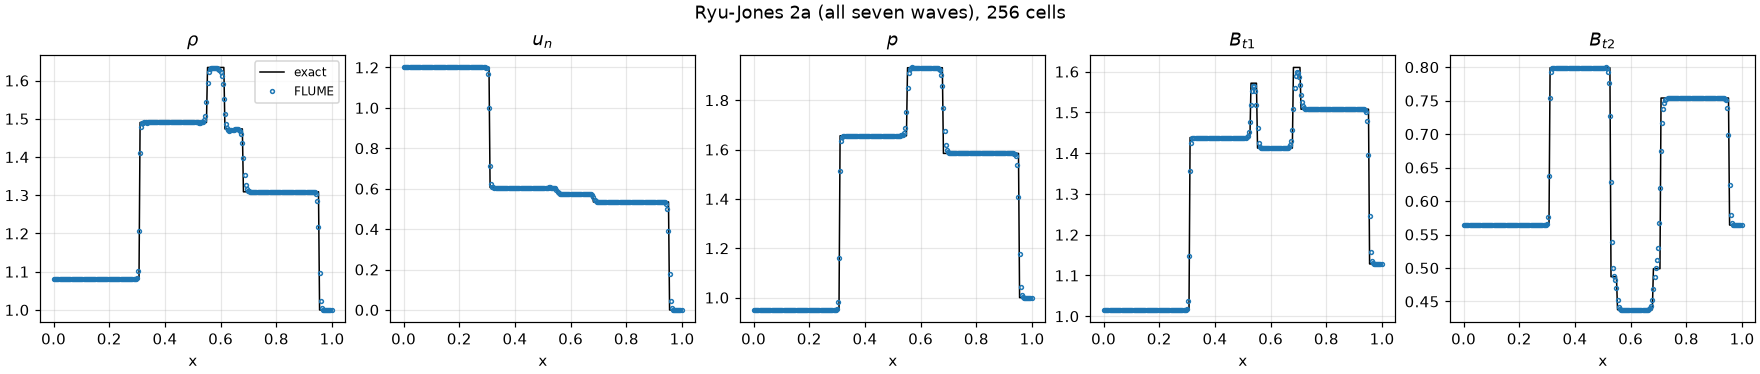
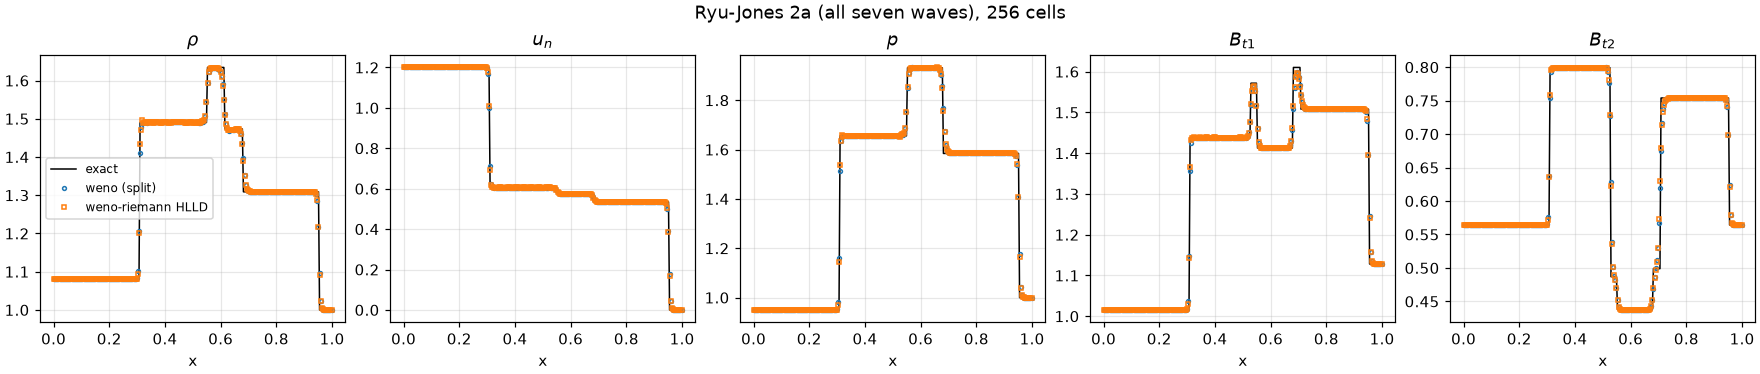
docs(flume): add the M3 figures to the verification page (#47, M3-P6)
The verification page showed no figure for the M3 MHD work. It now has:
  - the order of the four linear-wave families on both schemes;
  - Ryu-Jones 2a with the HLLD run over the splitting one;
  - the Orszag-Tang energy drift, GLM against EGLM;
  - the Balsara-Spicer and Wu-Shu blasts with the limiter;
  - the Euler near-vacuum problems (LeBlanc, double rarefaction, Sedov).

  The figures expose two facts the tables did not:
  - the limited splitting scheme carries grid-scale density noise on the
    blasts, where HLLD stays clean: positivity, not accuracy;
  - on LeBlanc both schemes put the shock ahead of the exact position,
    0.33 at 400 cells and 0.19 at 800 (measured), a slowly converging
    error the limiter does not cause.

  make_doc_runs.sh re-runs, with their checkpoints kept, the cases these
  figures read (the check.sh scripts delete the checkpoints); the figures
  come from make_doc_figures.py --runs.

  OpenACC: no new directives.

  Refs #47

diff --git a/src/tests/flume/verification/make_doc_figures.py b/src/tests/flume/verification/make_doc_figures.py
@@ -10,8 +10,9 @@ Usage:
     make_doc_figures.py --out DIR [--runs DIR] [--only NAME ...]
 
 `--runs` holds the re-runs of inputs whose work directories keep no checkpoint (the MHD cases), one sub-directory per
-case: orszag-tang, orszag-tang-amr, rotor, field-loop, brio-wu, rj4d, glm-pulse. A figure whose data is missing is
-skipped with a message. Needs numpy, h5py and matplotlib.
+case: orszag-tang, orszag-tang-amr, rotor, field-loop, brio-wu, rj4d, glm-pulse, and the cases of `make_doc_runs.sh`
+(rj2a, rj2a-hlld, the limited blasts, the Euler near-vacuum problems, the linear-wave ladders). A figure whose data is
+missing is skipped with a message. Needs numpy, h5py and matplotlib.
 """
 
 from __future__ import annotations
@@ -375,19 +376,22 @@ def fig_field_loop(out: Path, runs: Path) -> None:
                      "Field loop advected across the periodic box, 128²")
 
 
-def mhd_profile_figure(out: Path, name: str, work: Path, title: str, exact=None) -> None:  # noqa: ANN001
-    """Draw density, normal velocity, pressure and the tangential field of a 1-D MHD run."""
-    ini = read_ini(next(work.glob("*.ini")))
-    gamma, ngc = gamma_of(ini), int(ini["grid"]["ngc"])
-    axis, xs, q = profile(work, ngc, MHD)
-    pr = primitives(q, gamma, axis)
+def mhd_profile_figure(out: Path, name: str, work: Path, title: str, exact=None,  # noqa: ANN001
+                       label: str = "FLUME", extra: tuple[tuple[str, Path, str], ...] = ()) -> None:
+    """Draw density, normal velocity, pressure and the tangential field of a 1-D MHD run (and of the `extra` runs)."""
     keys = (("r", r"$\rho$"), ("u", r"$u_n$"), ("p", "$p$"), ("bt1", r"$B_{t1}$"), ("bt2", r"$B_{t2}$"))
     fig, axs = plt.subplots(1, 5, figsize=(16, 3.4), constrained_layout=True)
-    ex = exact(xs) if exact else None
-    for ax, (k, lab) in zip(axs, keys, strict=True):
-        if ex is not None:
-            ax.plot(xs, ex[k], "k-", lw=1.0, label="exact")
-        ax.plot(xs, pr[k], "o", ms=2.5, mfc="none", label="FLUME")
+    for n, (lab_run, w, marker) in enumerate(((label, work, "o"), *extra)):
+        ini = read_ini(next(w.glob("*.ini")))
+        gamma, ngc = gamma_of(ini), int(ini["grid"]["ngc"])
+        axis, xs, q = profile(w, ngc, MHD)
+        pr = primitives(q, gamma, axis)
+        ex = exact(xs) if exact and n == 0 else None
+        for ax, (k, _) in zip(axs, keys, strict=True):
+            if ex is not None:
+                ax.plot(xs, ex[k], "k-", lw=1.0, label="exact")
+            ax.plot(xs, pr[k], marker, ms=2.5, mfc="none", label=lab_run)
+    for ax, (_, lab) in zip(axs, keys, strict=True):
         ax.set_title(lab)
         ax.set_xlabel("x")
         ax.grid(alpha=0.3)
@@ -409,8 +413,8 @@ def fig_mhd_riemann(out: Path, runs: Path) -> None:
         return {"r": q[0], "u": q[1] / q[0], "p": (rj2a_oracle.GAMMA - 1.0) * (q[4] - kin - mag), "bt1": q[6],
                 "bt2": q[7]}
 
-    mhd_profile_figure(out, "rj2a", HERE / "mhd" / "rj2a" / f"{TAG}-none-256-x",
-                       "Ryu-Jones 2a (all seven waves), 256 cells", rj2a_exact)
+    mhd_profile_figure(out, "rj2a", runs / "rj2a", "Ryu-Jones 2a (all seven waves), 256 cells", rj2a_exact,
+                       label="weno (split)", extra=(("weno-riemann HLLD", runs / "rj2a-hlld", "s"),))
     mhd_profile_figure(out, "brio-wu", runs / "brio-wu", "Brio-Wu shock tube, GLM")
     mhd_profile_figure(out, "rj4d", runs / "rj4d", "Ryu-Jones 4d")
 
@@ -443,9 +447,132 @@ def fig_glm_pulse(out: Path, runs: Path) -> None:
     plt.close(fig)
 
 
+def fig_blast(out: Path, runs: Path) -> None:
+    """PV-1 and PV-2: the limited blasts, density and magnetic pressure on the two schemes."""
+    cases = (("blast", r"Balsara-Spicer blast, $\beta = 2.5\cdot10^{-4}$, 128², t = 0.01, EGLM, positivity limiter"),
+             ("blast-wushu", r"Wu-Shu blast, $\beta = 2.51\cdot10^{-6}$, 128², t = 0.001, EGLM, positivity limiter"))
+    for name, title in cases:
+        fig, axs = plt.subplots(2, 2, figsize=(11.2, 9.4), constrained_layout=True)
+        for row, (scheme, lab) in zip(axs, (("split", "weno (split)"), ("hlld", "weno-riemann HLLD")), strict=True):
+            work = runs / f"{name}-{scheme}"
+            ini = read_ini(next(work.glob("*.ini")))
+            gamma, ngc = gamma_of(ini), int(ini["grid"]["ngc"])
+            bl = first_plane(blocks(work, ngc, (*MHD, "psi")))
+            for ax, (key, sym, cmap) in zip(row, (("r", r"$\rho$", "magma"), ("pb", r"$|B|^2/2$", "viridis")),
+                                            strict=True):
+                im = field_map(ax, bl, lambda b, k=key, g=gamma: plane(b, g, k), cmap=cmap)
+                fig.colorbar(im, ax=ax, shrink=0.85)
+                ax.set_title(f"{sym}, {lab}")
+                ax.set_xlabel("x")
+                ax.set_ylabel("y")
+        fig.suptitle(title)
+        fig.savefig(out / f"{name}.png", dpi=DPI)
+        plt.close(fig)
+
+
+def double_rarefaction_exact(xs: np.ndarray, t: float, gamma: float, state: tuple) -> tuple:
+    """Return density, velocity and pressure of two symmetric rarefactions leaving the origin (state: rho, |u|, p)."""
+    r0, u0, p0 = state
+    a0 = math.sqrt(gamma * p0 / r0)
+    xi = np.abs(xs) / t  # the right half; the left one is its mirror image
+    a = np.clip(2.0 / (gamma + 1.0) * (a0 - 0.5 * (gamma - 1.0) * (u0 - xi)), 0.0, a0)
+    fan = xi < u0 + a0
+    r = np.where(fan, r0 * (a / a0) ** (2.0 / (gamma - 1.0)), r0)
+    p = np.where(fan, p0 * (a / a0) ** (2.0 * gamma / (gamma - 1.0)), p0)
+    u = np.where(fan, xi - a, u0)
+    return r, np.sign(xs) * u, p
+
+
+def fig_vacuum(out: Path, runs: Path) -> None:
+    """PV-3: LeBlanc, the double rarefaction and the planar Sedov blast, the two schemes with the limiter."""
+    cases = (("leblanc", "LeBlanc shock tube, 400 cells, t = 6", True),
+             ("double-rarefaction", "double rarefaction, 400 cells, t = 0.6", False),
+             ("sedov", "planar Sedov blast, 800 cells, t = 0.001", True))
+    fig, axs = plt.subplots(3, 3, figsize=(13.5, 10.2), constrained_layout=True)
+    for row, (name, title, logy) in zip(axs, cases, strict=True):
+        for scheme, lab, marker in (("split", "weno (split)", "s"), ("hllc", "weno-riemann HLLC", "o")):
+            work = runs / f"{name}-{scheme}"
+            ini = read_ini(next(work.glob("*.ini")))
+            gamma, ngc = gamma_of(ini), int(ini["grid"]["ngc"])
+            axis, xs, q = profile(work, ngc, EULER)
+            pr = primitives(q, gamma, axis)
+            if scheme == "split" and name != "sedov":
+                t = float(ini["time"]["time_max"])
+                reg = [ini[f"initial_conditions_region_{i}"] for i in (1, 2)]
+                st = [(float(s["r"]), float(s["u"]), float(s["p"])) for s in reg]
+                if name == "leblanc":
+                    ex = exact_riemann(xs, t, float(reg[0]["emax_x"]), gamma, st[0], st[1])
+                else:
+                    ex = double_rarefaction_exact(xs, t, gamma, st[1])
+                for ax, e in zip(row, ex, strict=True):
+                    ax.plot(xs, e, "k-", lw=1.0, label="exact")
+            for ax, k in zip(row, ("r", "u", "p"), strict=True):
+                ax.plot(xs, pr[k], marker, ms=2.5, mfc="none", label=lab)
+        for ax, sym in zip(row, (r"$\rho$", "$u$", "$p$"), strict=True):
+            ax.set_title(f"{sym}, {title}", fontsize=9)
+            ax.set_xlabel("x")
+            ax.grid(alpha=0.3)
+        if logy:
+            row[0].set_yscale("log")
+            row[2].set_yscale("log")
+        row[0].legend(fontsize=8)
+    fig.suptitle("Euler near vacuum with the positivity limiter (no floors)")
+    fig.savefig(out / "near-vacuum.png", dpi=DPI)
+    plt.close(fig)
+
+
+def fig_eglm_energy(out: Path, runs: Path) -> None:  # noqa: ARG001
+    """EV-4: drift of the total energy on the Orszag-Tang vortex, GLM and EGLM on the two schemes (history files)."""
+    ot = HERE / "mhd" / "orszag-tang"
+    curves = (("GLM, weno (split)", TAG, "C0", "-"), ("EGLM, weno (split)", f"{TAG}-eglm", "C1", "-"),
+              ("GLM, weno-riemann HLLD", f"{TAG}-hlld-characteristic-6th-weno", "C0", "--"),
+              ("EGLM, weno-riemann HLLD", f"{TAG}-hlld-characteristic-6th-weno-eglm", "C1", "--"))
+    fig, ax = plt.subplots(figsize=(7.2, 4.2), constrained_layout=True)
+    for lab, d, colour, style in curves:
+        h = np.loadtxt(ot / d / "orszag-tang-conservation_history.dat", skiprows=1)
+        ax.plot(h[:, 1], (h[:, 6] - h[0, 6]) / h[0, 6], color=colour, ls=style, label=lab)
+    ax.set_xlabel("t")
+    ax.set_ylabel(r"$(\int E - \int E_0) / \int E_0$")
+    ax.grid(alpha=0.3)
+    ax.legend(fontsize=8)
+    ax.set_title("Orszag-Tang vortex, 128²: drift of the total energy")
+    fig.savefig(out / "eglm-energy.png", dpi=DPI)
+    plt.close(fig)
+
+
+def fig_order(out: Path, runs: Path) -> None:
+    """MV-5: convergence of the four linear-wave families (1-D), the two schemes."""
+    sys.path.insert(0, str(HERE / "mhd" / "linear-wave"))
+    import linear_wave_oracle  # noqa: PLC0415
+
+    ladder = (16, 32, 64)
+    fig, axs = plt.subplots(1, 2, figsize=(11, 4.4), constrained_layout=True, sharey=True)
+    for ax, (scheme, lab) in zip(axs, (("split", "weno (split)"), ("hlld", "weno-riemann HLLD")), strict=True):
+        for wave, marker in (("fast", "o"), ("alfven", "s"), ("slow", "^"), ("entropy", "d")):
+            eps = []
+            for n in ladder:
+                work = runs / f"linear-wave-{scheme}-{wave}-{n}"
+                eps.append(linear_wave_oracle.error(work, int(read_ini(next(work.glob("*.ini")))["grid"]["ngc"])))
+            orders = " / ".join(f"{math.log2(a / b):.2f}" for a, b in zip(eps[:-1], eps[1:], strict=True))
+            ax.loglog(ladder, eps, marker + "-", ms=5, mfc="none", label=f"{wave}, orders {orders}")
+        ref = [eps[0] * (ladder[0] / n) ** 5 for n in ladder]
+        ax.loglog(ladder, ref, "k:", lw=1.0, label=r"$N^{-5}$")
+        ax.set_xticks(ladder, [str(n) for n in ladder])
+        ax.xaxis.set_minor_formatter(mpl.ticker.NullFormatter())
+        ax.set_xlabel("cells per wavelength")
+        ax.set_title(lab)
+        ax.grid(alpha=0.3, which="both")
+        ax.legend(fontsize=8)
+    axs[0].set_ylabel(r"$\epsilon$ after one period")
+    fig.suptitle("MHD linear waves (Stone et al. 2008), amplitude $10^{-7}$: order of accuracy")
+    fig.savefig(out / "linear-wave-order.png", dpi=DPI)
+    plt.close(fig)
+
+
 FIGURES = {"sod": fig_sod, "lax": fig_lax, "shu-osher": fig_shu_osher, "vortex": fig_vortex,
            "shock-cylinder": fig_cylinder, "conservation": fig_conservation, "orszag-tang": fig_orszag_tang,
-           "rotor": fig_rotor, "field-loop": fig_field_loop, "mhd-riemann": fig_mhd_riemann, "glm-pulse": fig_glm_pulse}
+           "rotor": fig_rotor, "field-loop": fig_field_loop, "mhd-riemann": fig_mhd_riemann, "glm-pulse": fig_glm_pulse,
+           "blast": fig_blast, "near-vacuum": fig_vacuum, "eglm-energy": fig_eglm_energy, "order": fig_order}
 
 
 def main() -> int:

diff --git a/docs/applications/flume/verification.md b/docs/applications/flume/verification.md
@@ -136,8 +136,10 @@ $y$ and $z$ with 256 cells and along $x$ with 512.
 
 ![Ryu-Jones 2a](/flume/rj2a.png)
 
-$L_1$ below the recorded bound and decreasing from 256 to 512 cells (first order, as the discontinuities dominate); the
-$y$ and $z$ runs equal the $x$ run **bitwise** in the rotated frame. `mhd/rj2a/check.sh` (MV-4).
+The figure overlays the splitting scheme and `weno-riemann` with HLLD (characteristic interpolation), which are
+indistinguishable at this scale. $L_1$ below the recorded bound and decreasing from 256 to 512 cells (first order, as
+the discontinuities dominate); the $y$ and $z$ runs equal the $x$ run **bitwise** in the rotated frame.
+`mhd/rj2a/check.sh` (MV-4).
 
 ### Brio–Wu and Ryu–Jones 4d
 
@@ -170,6 +172,13 @@ decay of $\|\nabla\cdot\mathbf{B}\|_1$ from an initial peak of $\nabla\cdot\math
 | MV-5 `mhd/linear-wave/` | the fast, Alfvén, slow and entropy eigenmodes, amplitude $10^{-7}$ | about 5th order for every family |
 | MV-6 `mhd/cpaw/` | circularly polarised Alfvén wave (exact nonlinear solution), oblique in 2-D | orders 4.89 and 4.99 on 32/64/128; left and right polarisations **bitwise** equal |
 | MV-7 `mhd/vortex/` | magnetised vortex of Balsara (2004), GLM | $L_1$ order 5.01, $L_\infty$ 4.41 (pre-asymptotic); div B at truncation level |
+
+![MHD linear waves, order of accuracy](/flume/linear-wave-order.png)
+
+The 1-D linear waves on 16, 32 and 64 cells per wavelength, on the two schemes; the legend gives the orders of the two
+pairs. From 16 to 32 cells every family is at 4.96–4.97; at 64 cells the error is $10^{-13}$, six decades below the
+amplitude, and the round-off floor lowers the slow and entropy orders to 4.85 (which is why MV-5 asserts on the 16/32
+pair).
 
 ### Orszag–Tang vortex
 
@@ -262,6 +271,12 @@ rj2a/check.sh [--numerics hlld]                                               # 
 | linear waves, observed order | 4.96–4.98 | 4.96–4.97 |
 | Balsara–Spicer blast ($\beta = 2.5\cdot10^{-4}$, $128^2$, no limiter, no floors) | non-positive pressure at step 3 | reaches $t = 0.01$ (396 steps) |
 
+![Orszag-Tang, drift of the total energy under GLM and EGLM](/flume/eglm-energy.png)
+
+The total energy of the periodic Orszag–Tang box: GLM keeps it to round-off, EGLM changes it through its
+nonconservative sources, by $3.0\cdot10^{-4}$ (splitting) and $4.4\cdot10^{-4}$ (HLLD) at $t = 0.5$, within the EV-4
+bound.
+
 EV-2 runs at amplitude $10^{-3}$: EGLM couples the $(B_x, \psi)$ pair to the fluid (the damped cleaning energy becomes
 heat, the heat drives a flow, the source $-(\nabla\cdot\mathbf{B})\mathbf{u}$ moves $B_x$), which at the GLM amplitude
 0.1 floors the damped legs at a relative $L_1$ of $8\cdot10^{-5}$; at $10^{-3}$ EGLM equals GLM to 3 digits. EV-4
@@ -295,6 +310,25 @@ cd src/tests/flume/verification/mhd/positivity
 | PV-3, double rarefaction, 400 cells | splitting runs; HLLC fails at step 79 | passes, never limited | passes, up to 1024 |
 | PV-3, planar Sedov blast, 800 cells | splitting runs; HLLC fails at step 69 | passes, never limited | passes, up to 768 |
 | PV-4, isentropic vortex ($64^2$, $128^2$) and fast wave (16, 32 cells, EGLM) | — | bitwise equal to the run without the limiter | — |
+
+![Balsara-Spicer blast with the limiter](/flume/blast.png)
+
+![Wu-Shu blast with the limiter](/flume/blast-wushu.png)
+
+Both schemes reach the final time, but not with the same quality: the density of the splitting scheme carries
+grid-scale noise around the blast, mild at $\beta = 2.5\cdot10^{-4}$ and plain at $\beta = 2.51\cdot10^{-6}$, where HLLD
+stays clean. The limiter guarantees positivity, not accuracy: on strongly magnetised blasts `weno-riemann` with HLLD is
+the scheme to use.
+
+![Euler near vacuum with the limiter](/flume/near-vacuum.png)
+
+The near-vacuum problems on the two schemes, with the exact solution of LeBlanc and of the double rarefaction. On
+LeBlanc both schemes put the shock ahead of its exact position $x = 7.96$: by 0.33 at 400 cells and by 0.19 at 800
+(measured on the splitting scheme), an error that converges slowly under refinement, as reported for this problem in the
+literature, and that the limiter does not cause (the splitting scheme never limits here). On the double rarefaction the
+velocity is ill-defined where the density nearly vanishes, hence the kink at $x = 0$; on Sedov HLLC reaches a lower
+centre density than the splitting scheme ($4\cdot10^{-3}$ against $7\cdot10^{-3}$) and the ambient pressure stays at
+its initial $4\cdot10^{-13}$.
 
 PV-2 is the second blast of Wu & Shu (2018, Example 4.4): $p = 10^4$ in the disc, $\mathbf{B} = (1000/\sqrt{4\pi}, 0, 0)$,
 $t = 0.001$. PV-3 takes the near-vacuum problems of Zhang & Shu (2010): LeBlanc ($\gamma = 5/3$, $(\rho, e) = (1, 0.1)$
